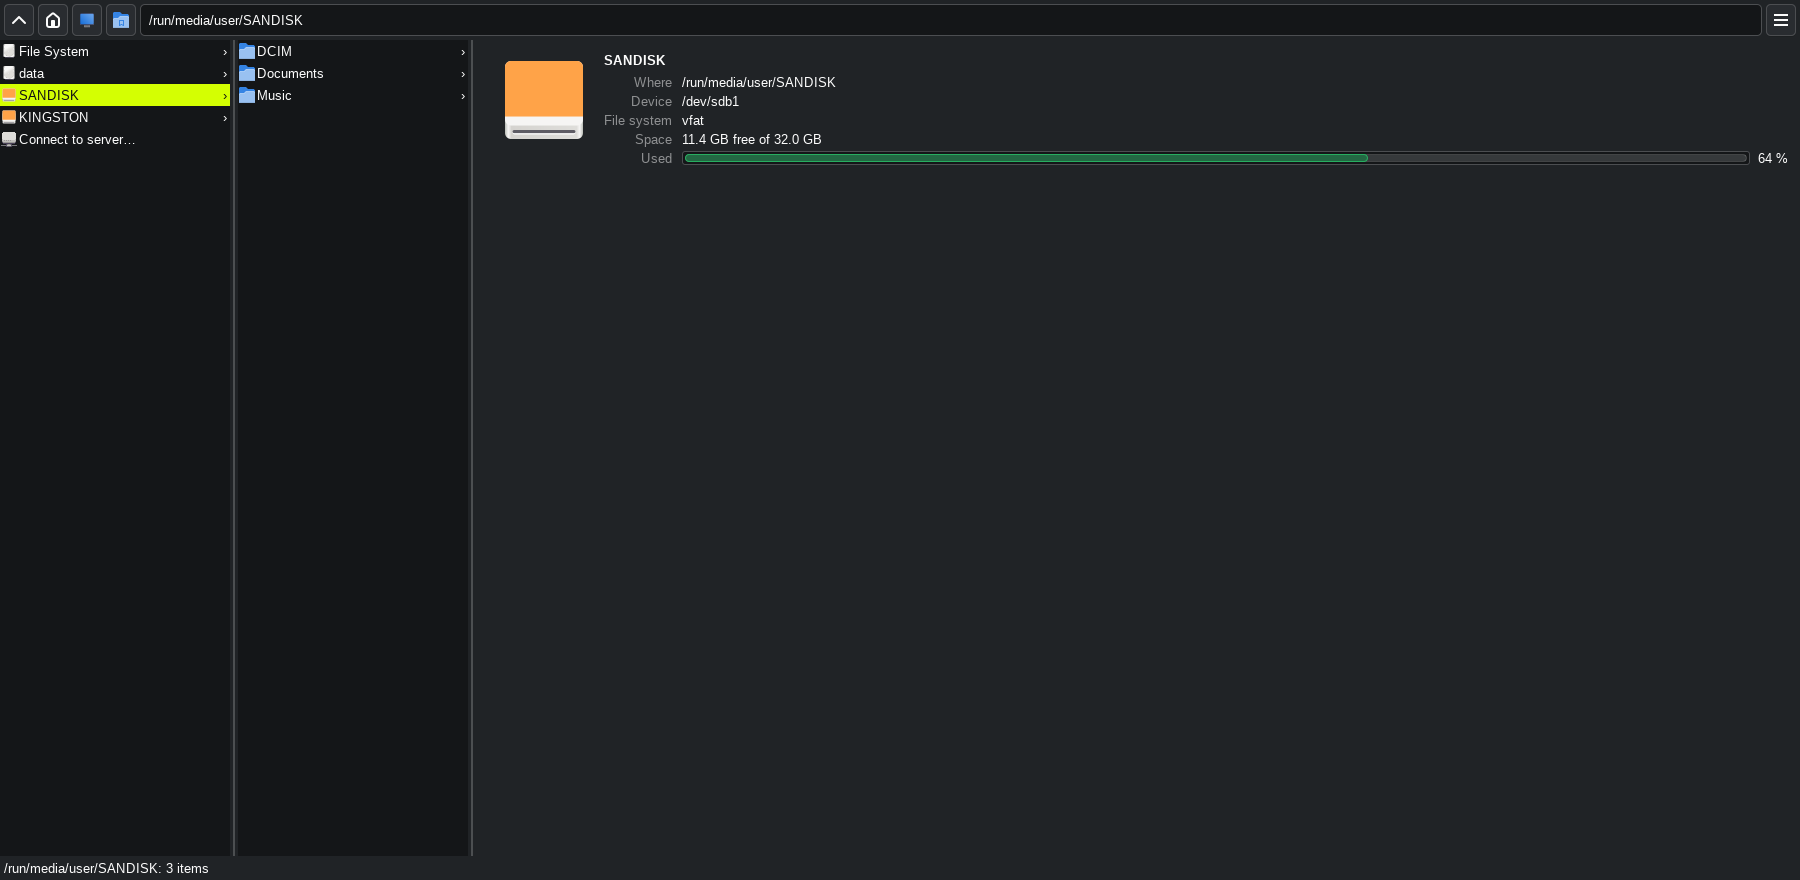
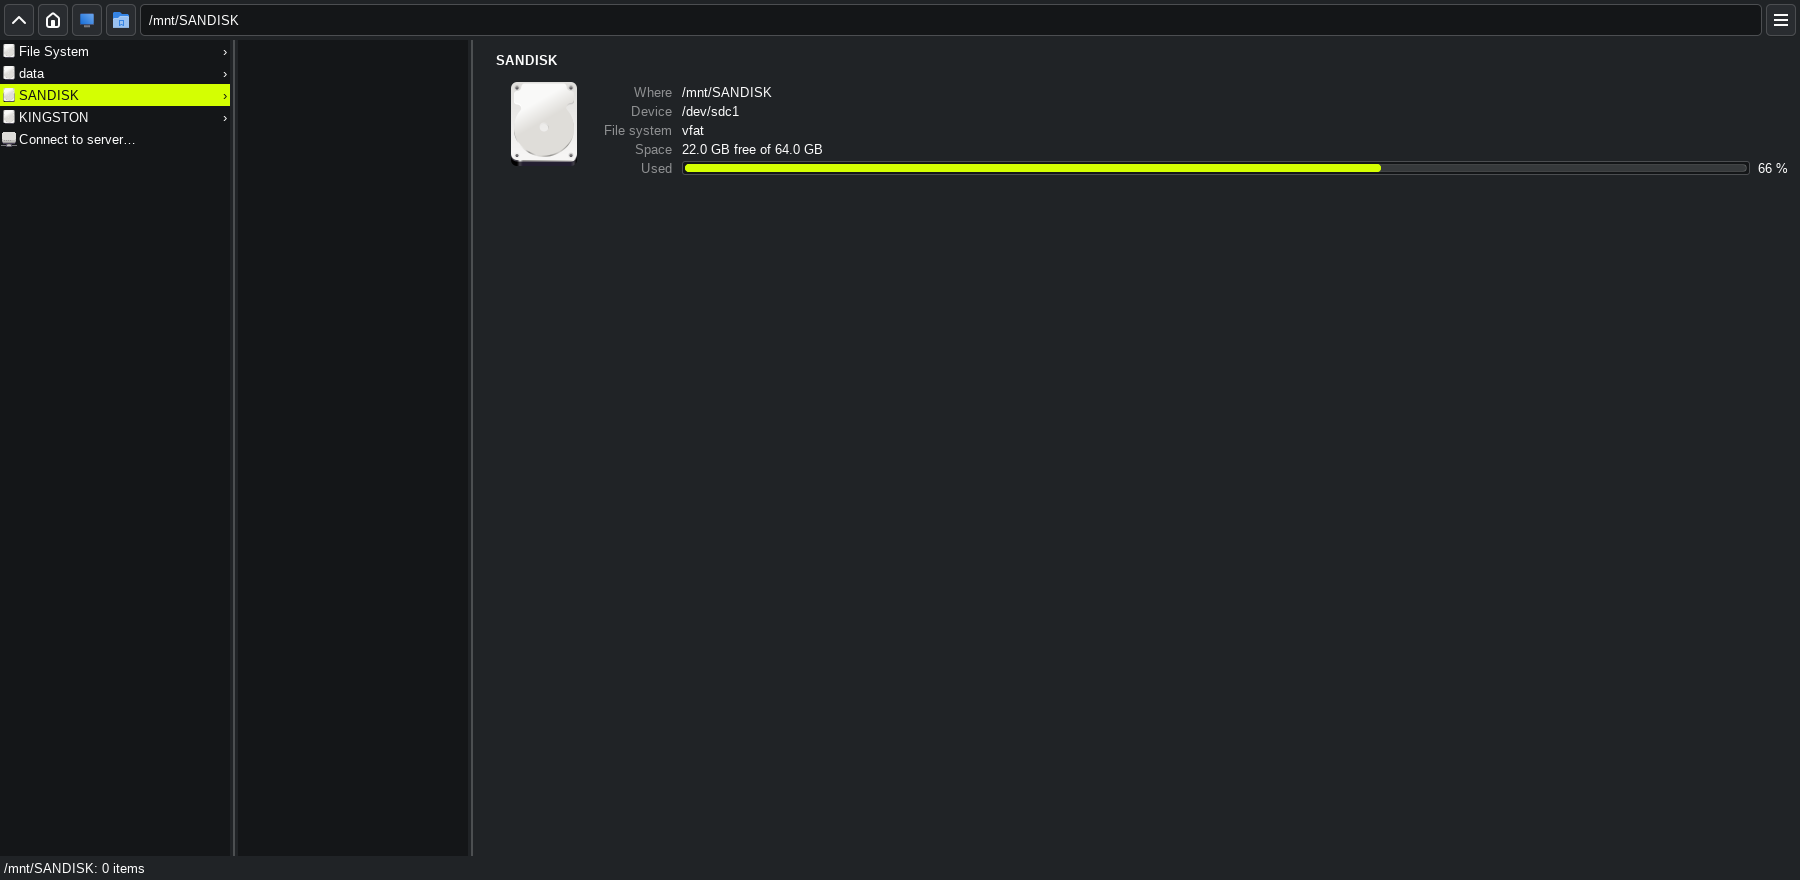
Docs: new screenshots (tour GIF, gallery, search, trash, languages), dark with the yellow highlight

diff --git a/README.md b/README.md
@@ -36,7 +36,7 @@ The technique is credited to **Mark S. Miller**, who came up with it in 1980 at
 Yale University; it was later used at Project Xanadu, Datapoint and NeXT.
 millerX carries his name.
 
-![millerX](docs/screenshot.png?v=074)
+![millerX: from the home folder through the columns into a gallery of holiday photos and an album](docs/tour.gif?v=082)
 
 ## What it does
 
@@ -101,9 +101,23 @@ millerX carries his name.
 - Columns follow changes on disk. Names sort case-insensitive and naturally (file2 before
   file10), folders first (optional).
 
-![The preview fits a picture into the rest of the window](docs/preview.png?v=074)
+![The preview fits a picture into the rest of the window](docs/preview.png?v=082)
 
-![The Computer column: disks, USB sticks and network, each with its free space](docs/computer.png?v=074)
+![The gallery: a folder's pictures under its details; the picked one lights up in the column too](docs/gallery.png?v=082)
+
+![Search (Ctrl+F): every name with "morning" in it, here and below](docs/search.png?v=082)
+
+![The Trash in its own window: sorted by newest, with where each item came from](docs/trash.png?v=082)
+
+![The Computer column: disks, USB sticks and network, each with its free space](docs/computer.png?v=082)
+
+The languages: Wizard, German and Greek.
+
+<p>
+<img src="docs/wizard.png?v=082" width="32%" alt="Wizard: Banish to the Void, Read the runes, Add to sacred texts">
+<img src="docs/german.png?v=082" width="32%" alt="German: the right-click menu of an archive">
+<img src="docs/greek.png?v=082" width="32%" alt="Greek: the settings">
+</p>
 
 What changed in each version: [CHANGELOG](CHANGELOG.md).
 
@@ -255,7 +269,7 @@ Folders with their own sorting are kept in `~/.config/millerx/sorting.conf`, one
 (`date`, `size`, `type` or `name`, a tab, `1` if reversed, a tab, the folder). The settings
 list them too, to change or remove.
 
-![Settings](docs/settings.png?v=074)
+![Settings](docs/settings.png?v=082)
 
 ## Bugs and wishes
 
